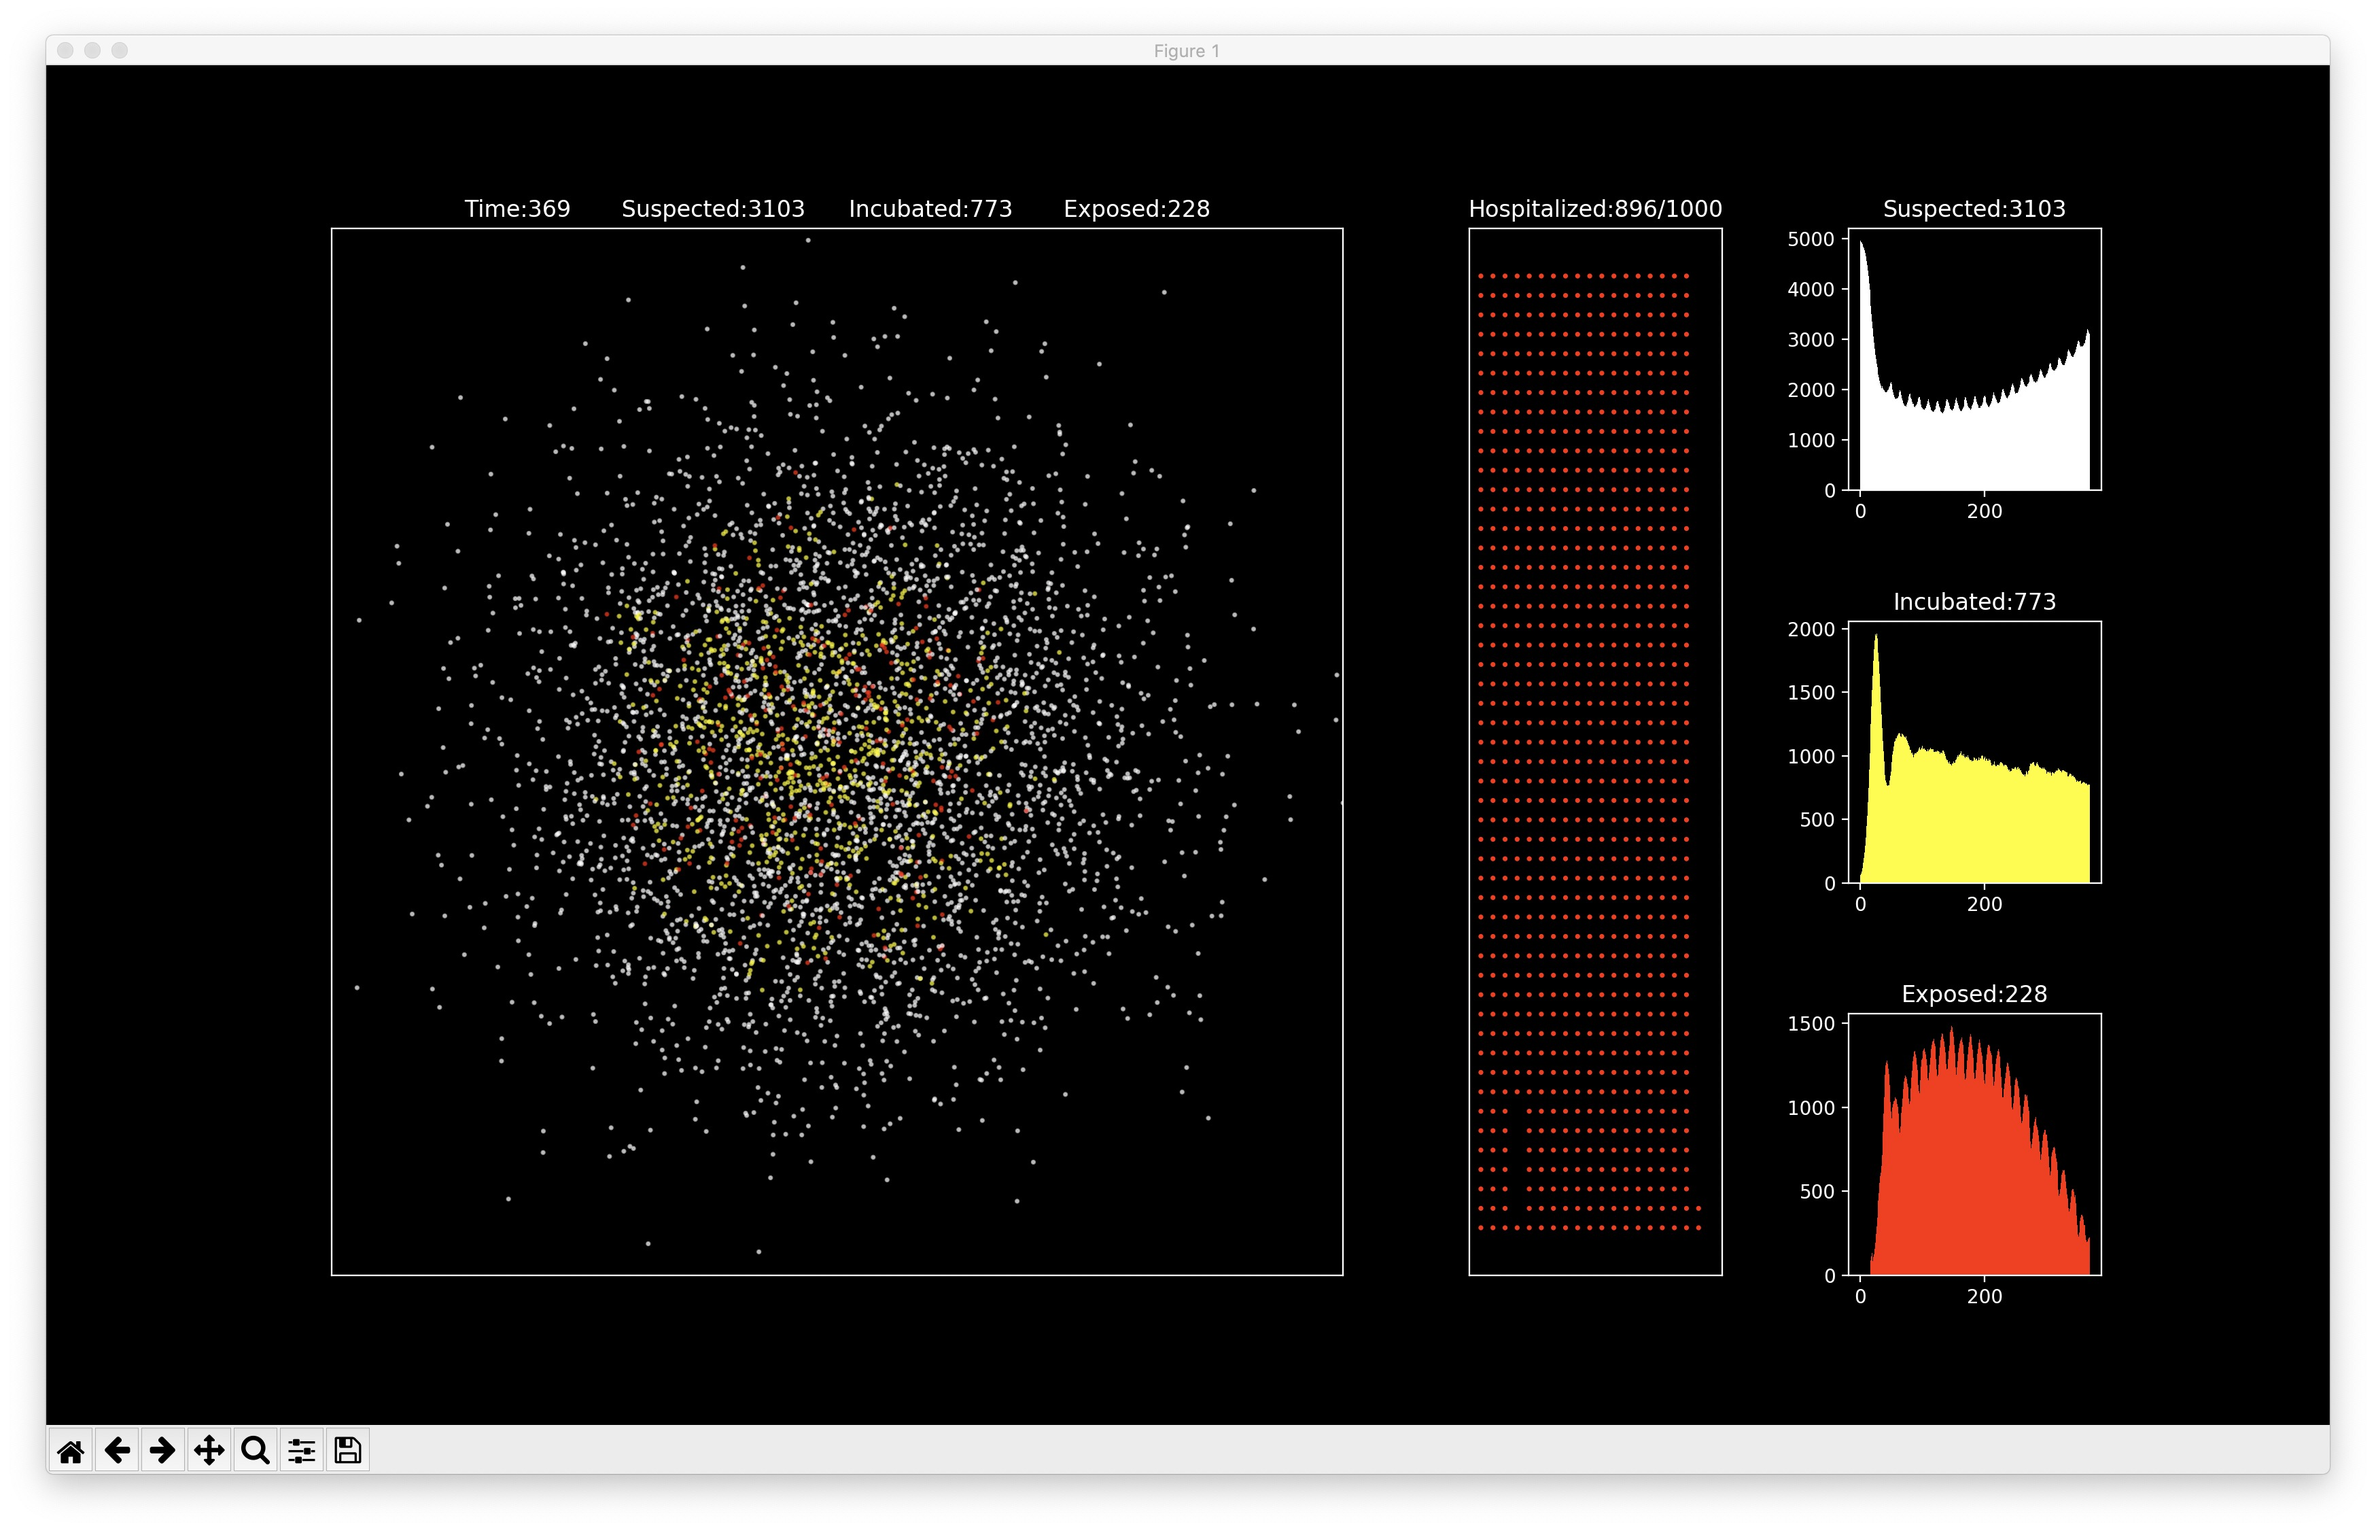
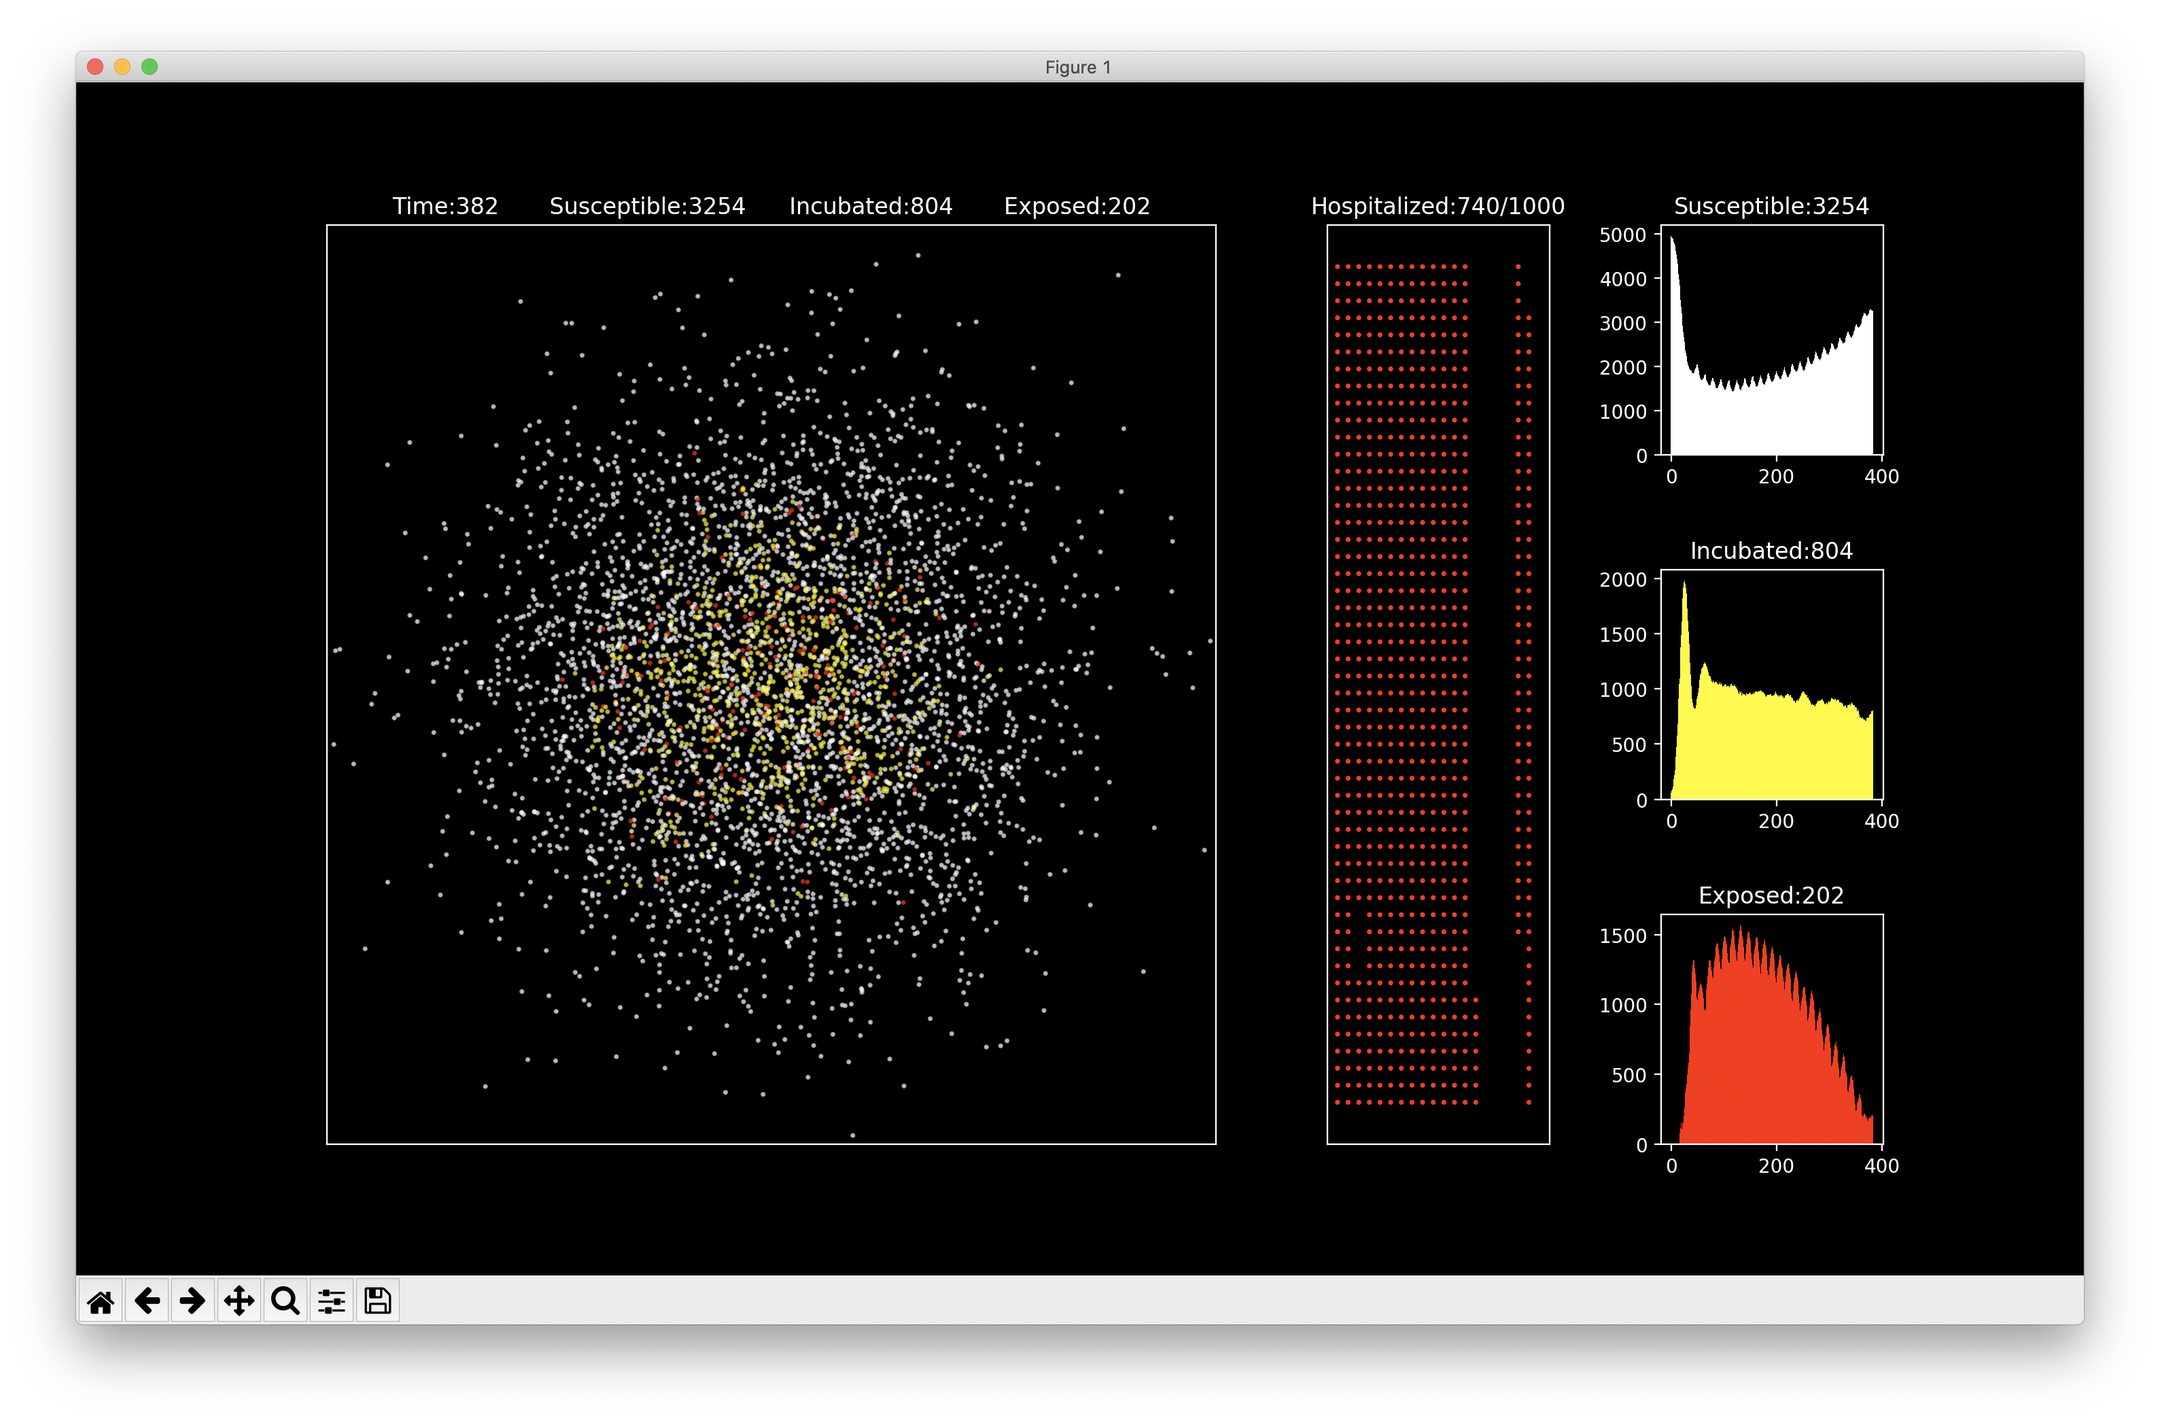
Name change

diff --git a/main.py b/main.py
@@ -58,7 +58,7 @@ def animate(time):
 	ax1.clear()
 	ax1.scatter(pool.getX(), pool.getY(), c = [colors_people[j] for j in status], marker = '.', \
 				alpha = 0.5, s = 10)
-	ax1.set_title(f'Time:{time:<10}susceptible:{Susceptible:<10}Incubated:{incubated:<10}Exposed:{exposed}')
+	ax1.set_title(f'Time:{time:<10}Susceptible:{susceptible:<10}Incubated:{incubated:<10}Exposed:{exposed}')
 	ax1.set_xticks([])
 	ax1.set_yticks([])
 	ax1.set_xlim(-5000, 5000)
